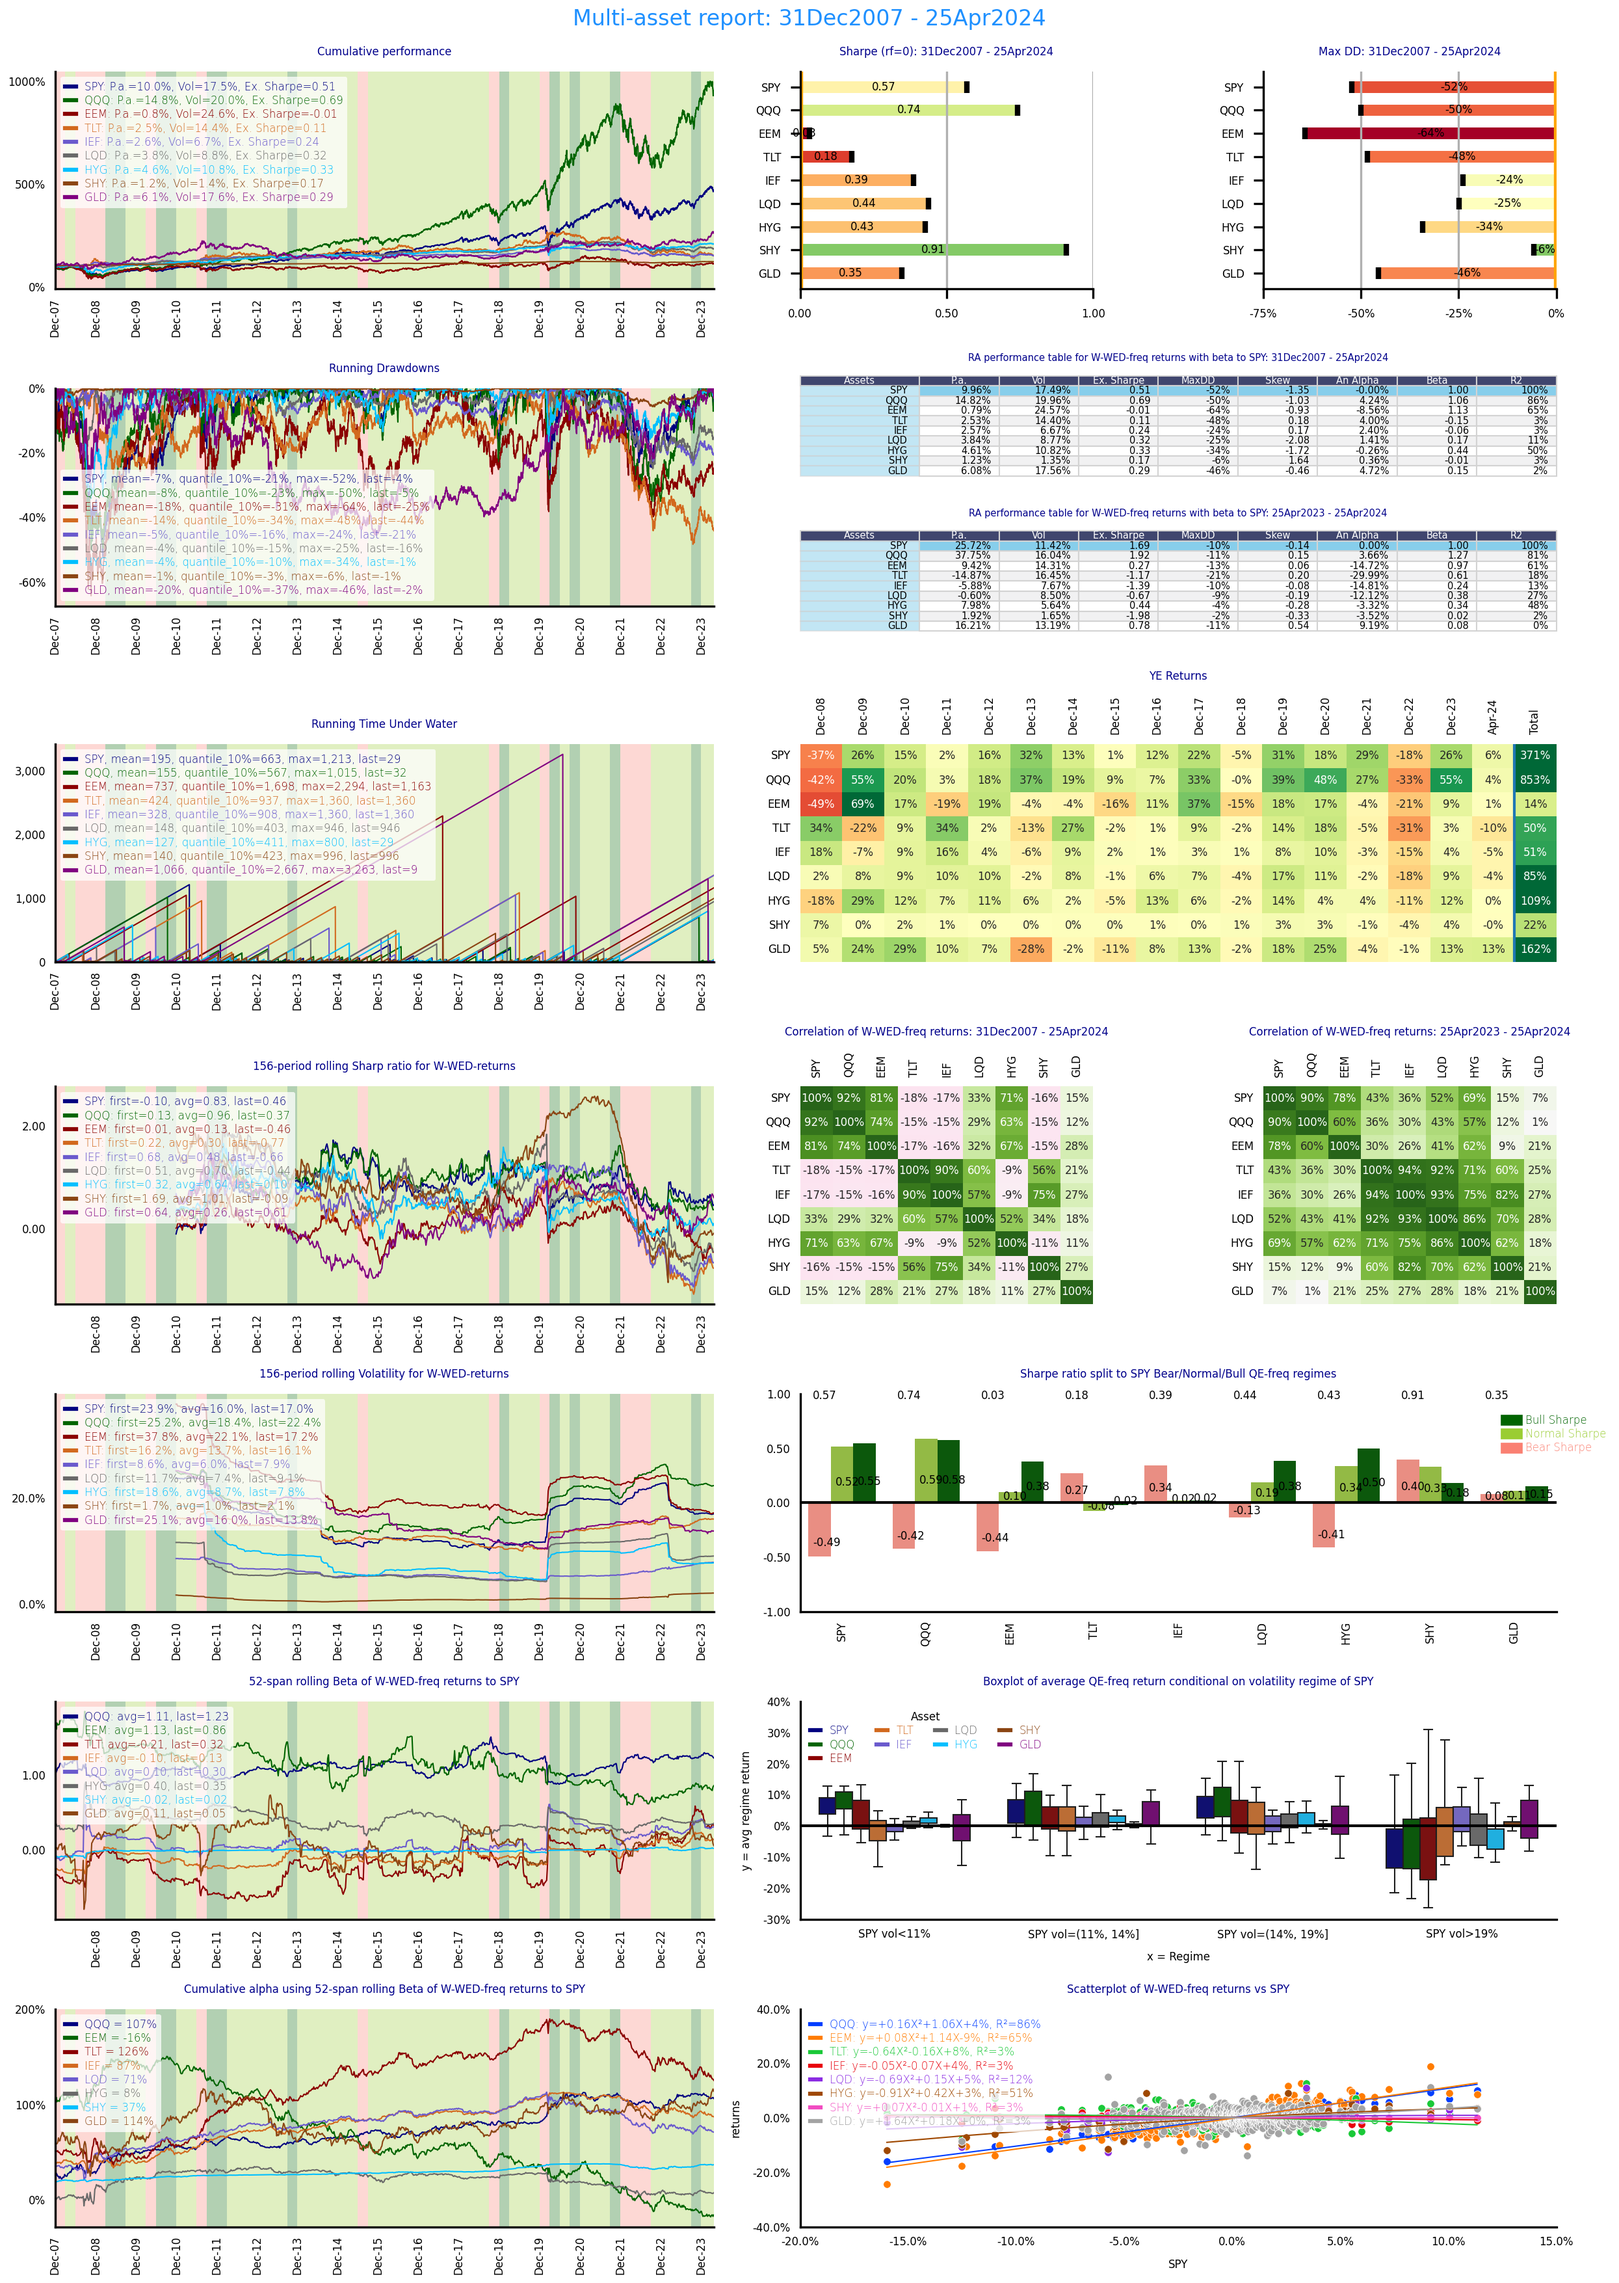
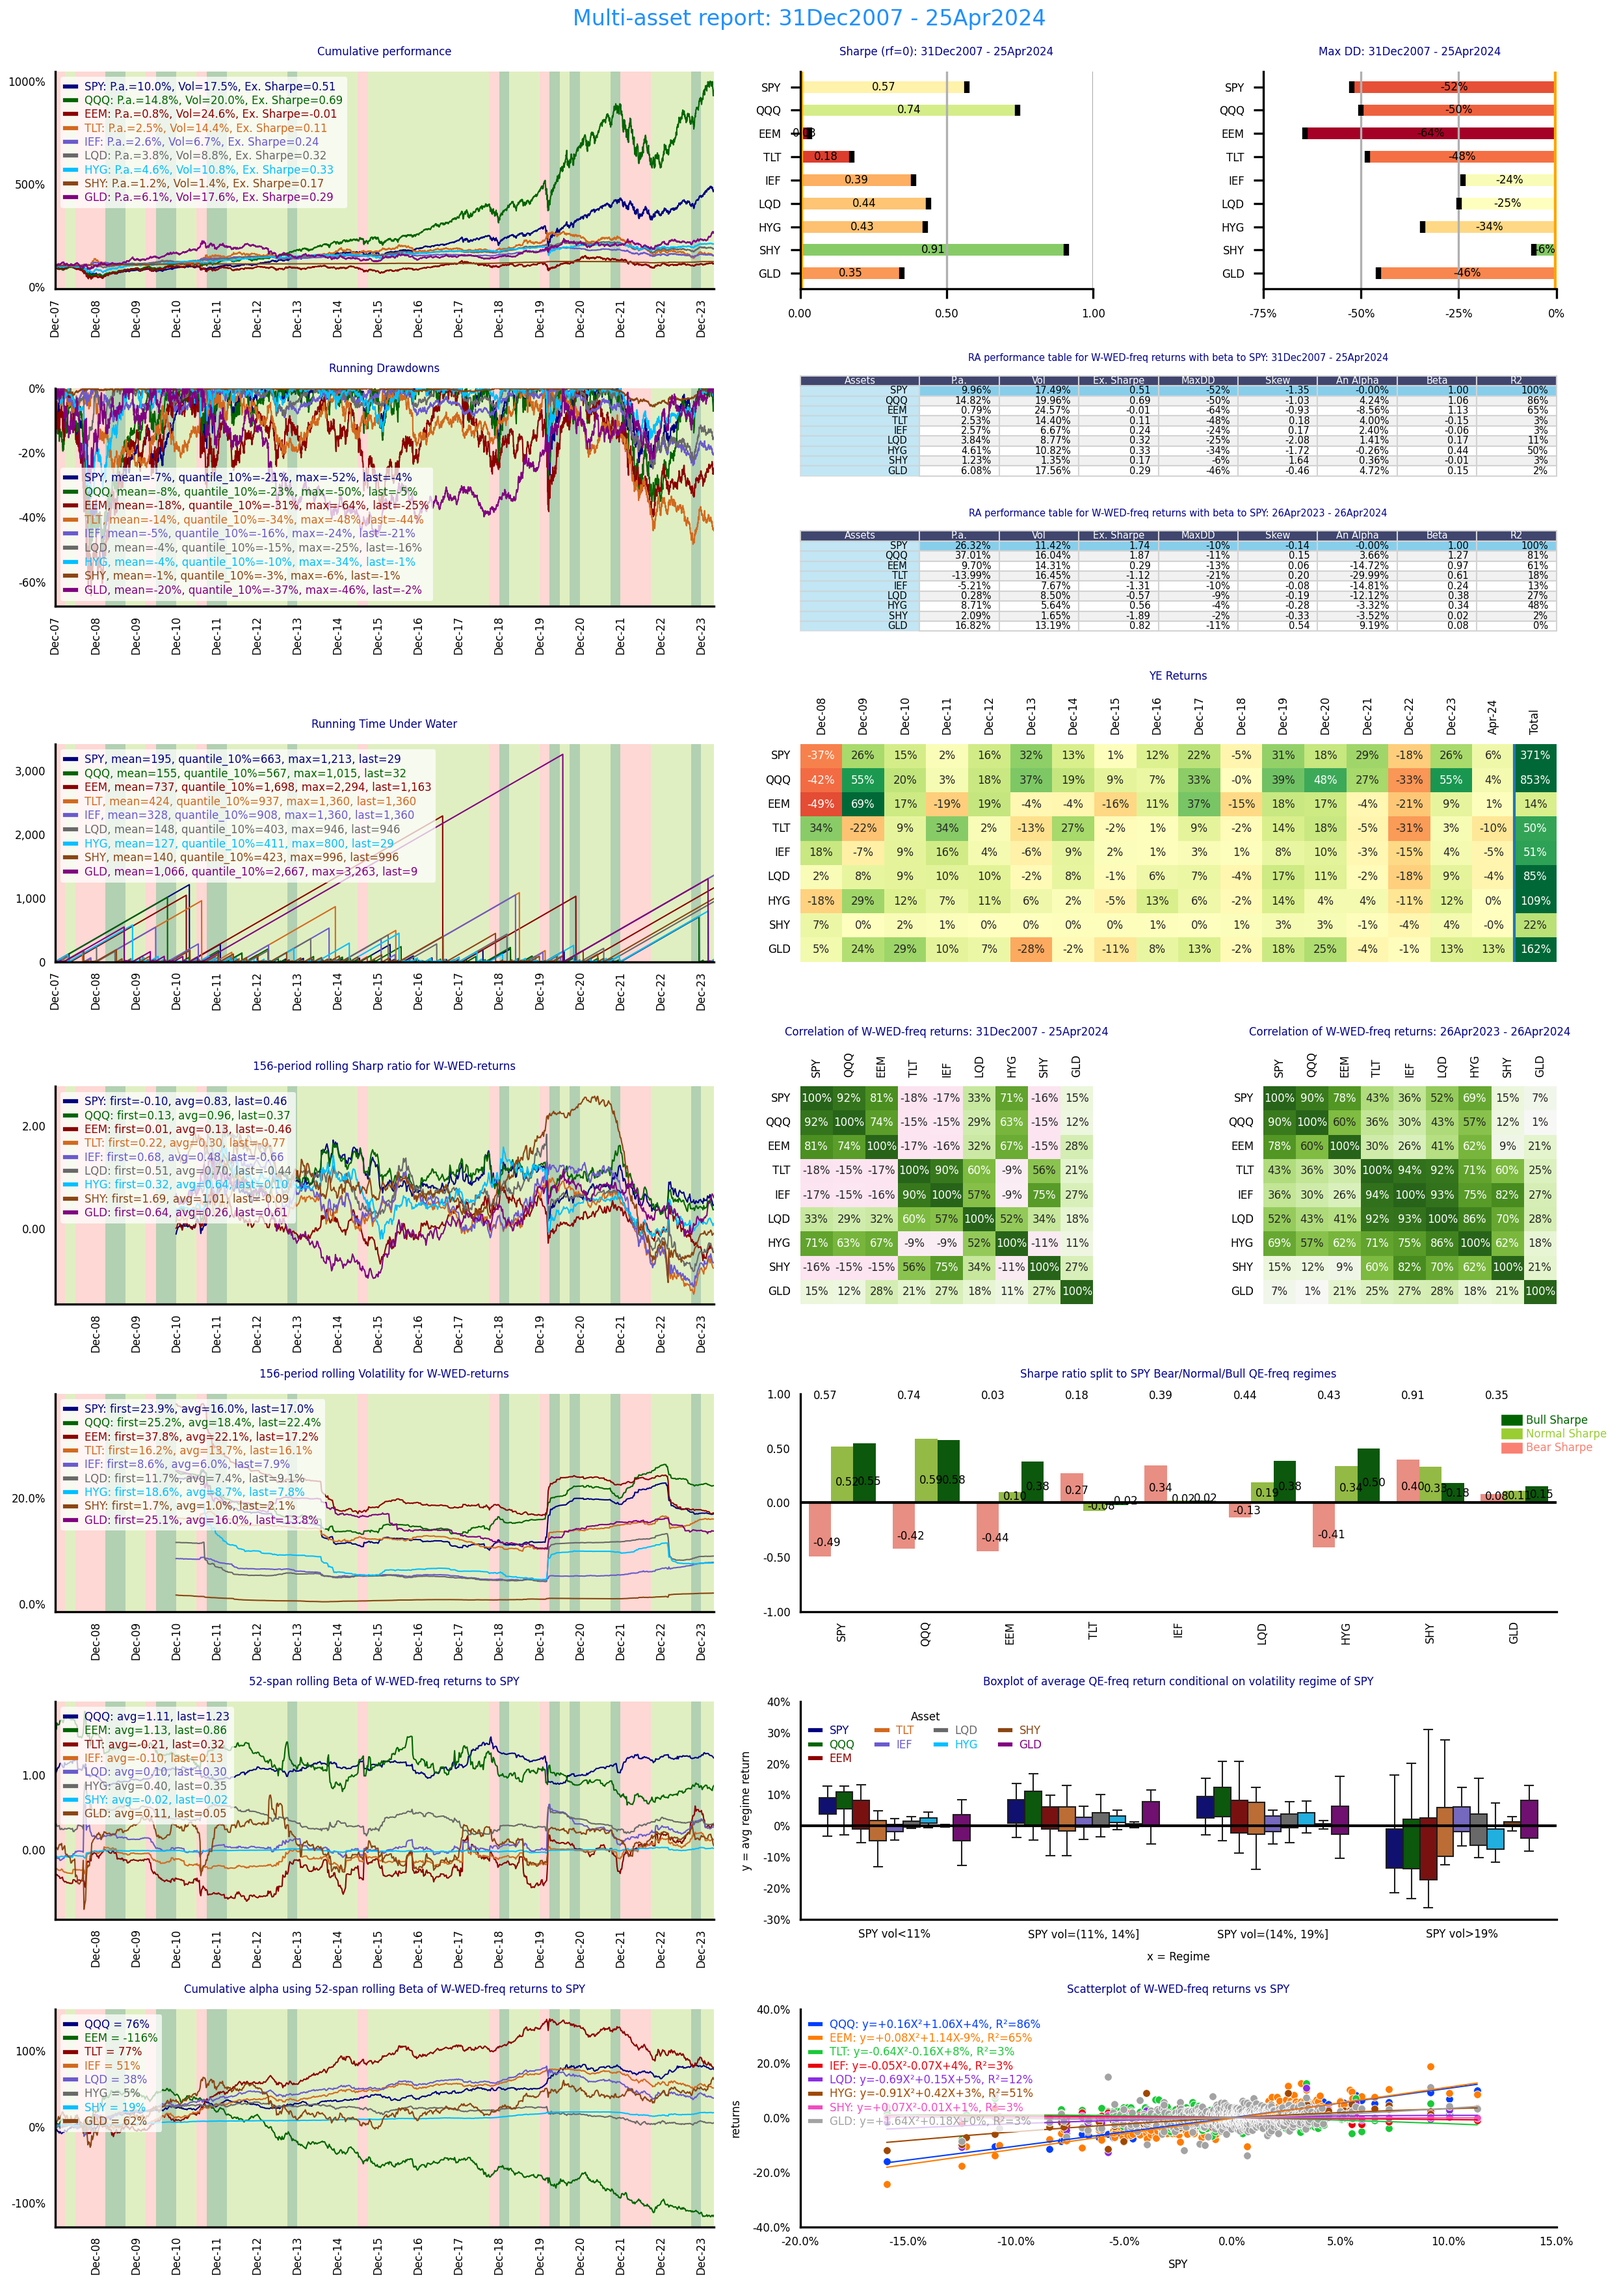
add rolling alpha for multi-asset factsheet

diff --git a/qis/examples/factsheets/multi_strategy.py b/qis/examples/factsheets/multi_strategy.py
@@ -84,6 +84,9 @@ def run_unit_test(unit_test: UnitTests):
         figs = generate_multi_portfolio_factsheet(multi_portfolio_data=multi_portfolio_data,
                                                   time_period=time_period,
                                                   **fetch_default_report_kwargs(time_period=time_period))
+
+        qis.save_fig(fig=figs[0], file_name=f"multi_strategy", local_path=qis.local_path.get_output_path())
+
         qis.save_figs_to_pdf(figs=figs,
                              file_name=f"volparity_span_factsheet_long",
                              orientation='landscape',
@@ -97,9 +100,6 @@ def run_unit_test(unit_test: UnitTests):
                              file_name=f"volparity_span_factsheet_short",
                              orientation='landscape',
                              local_path=qis.local_path.get_output_path())
-
-        qis.save_fig(fig=figs[0], file_name=f"multi_strategy", local_path=qis.local_path.get_output_path())
-
     # plt.show()
 
 

diff --git a/qis/portfolio/reports/strategy_factsheet.py b/qis/portfolio/reports/strategy_factsheet.py
@@ -138,7 +138,7 @@ def generate_strategy_factsheet(portfolio_data: PortfolioData,
                                                                                 factor_beta_span=factor_beta_span,
                                                                                 time_period=time_period)
     factor_attribution_title = factor_attribution_title or f"Cumulative return attribution using rolling {factor_beta_span}-span beta of {beta_freq}-freq returns"
-    qis.plot_time_series(df=factor_attribution,
+    qis.plot_time_series(df=factor_attribution.cumsum(0),
                          var_format='{:,.0%}',
                          legend_stats=qis.LegendStats.LAST_NONNAN,
                          title=factor_attribution_title,

diff --git a/qis/plots/time_series.py b/qis/plots/time_series.py
@@ -22,7 +22,7 @@ def plot_time_series(df: Union[pd.Series, pd.DataFrame],
                      legend_loc: Optional[Union[str, bool]] = 'upper left',
                      last_label: LastLabel = LastLabel.NONE,
                      sort_by_value_stretch_factor: float = 1.0,
-                     trend_line: TrendLine = TrendLine.NONE,
+                     trend_line: Optional[TrendLine] = TrendLine.NONE,
                      trend_line_colors: List[str] = None,
                      legend_stats: LegendStats = LegendStats.AVG_LAST,
                      desc_table_type: DescTableType = DescTableType.NONE,

diff --git a/qis/portfolio/multi_portfolio_data.py b/qis/portfolio/multi_portfolio_data.py
@@ -166,7 +166,7 @@ class MultiPortfolioData:
                                          roll_periods=sharpe_rolling_window,
                                          roll_freq=sharpe_freq,
                                          legend_stats=legend_stats,
-                                         trend_line=qis.TrendLine.ZERO_SHADOWS,
+                                         trend_line=None, #qis.TrendLine.ZERO_SHADOWS,
                                          var_format=var_format,
                                          title=sharpe_title,
                                          ax=ax,

diff --git a/qis/portfolio/reports/multi_assets_factsheet.py b/qis/portfolio/reports/multi_assets_factsheet.py
@@ -278,6 +278,8 @@ class MultiAssetsReport:
                                                          span=factor_beta_span,
                                                          is_x_correlated=True)
         factor_alpha, explained_returns = ewm_linear_model.get_factor_alpha()
+        if time_period is not None:
+            factor_alpha = time_period.locate(factor_alpha)
 
         if factor_alpha_title is not None:
             factor_alpha_title = f"{factor_alpha_title} to {benchmark}"

diff --git a/setup.py b/setup.py
@@ -16,7 +16,7 @@ requirements = read_requirements("requirements.txt")
 
 setup(
     name='qis',
-    version='2.0.57',
+    version='2.0.58',
     author='Artur Sepp',
     author_email='artursepp@gmail.com',
     url='https://github.com/ArturSepp/QuantInvestStrats',
